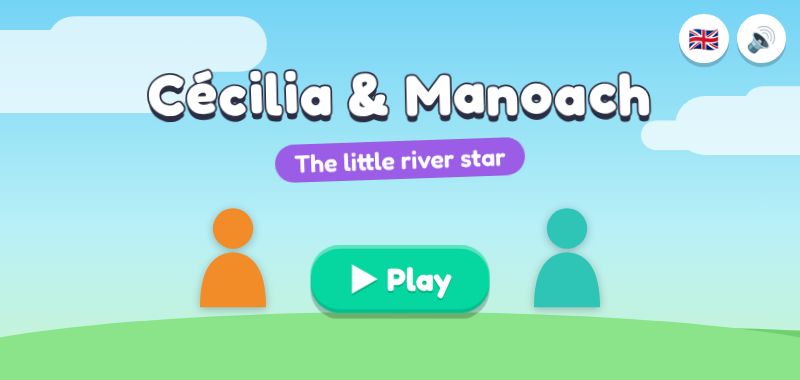
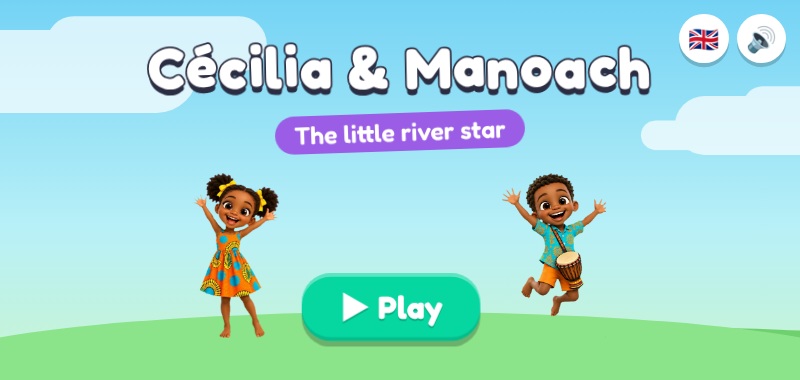
Personnages en style toon : 37 sprites générés avec ElevenLabs et intégrés
- Cécilia (8 poses), Manoach (7), petite étoile (7), Thérèse, Axel,
  Christian, Maman la Lune, luciole : images toon détourées, 512 px,
  WebP ≤ 80 Ko (1,4 Mo au total) dans app/www/img/persos/
- Francesca, Rokaya, Mathias restent des silhouettes neutres
- Mise en page des sprites (cartes de stage, scène, accueil, fête) ;
  pose de fête par personnage (PERSONNAGES.<id>.fete)
- Célébration : Cécilia (ou Manoach en fin de chapitre) à la place de
  l'avatar générique V1
- docs/PROMPTS-IMAGES.md : prompts, méthode, lien de la planche Figma
- outils/images/planche.py : découpe et détourage des planches
- Captures V2 régénérées

Claude-Session: https://claude.ai/code/session_01QWtMEEjt6sdt3rUZ92HTK4

Changed region(s): [[0.1562, 0.1158, 0.8125, 0.4921], [0.375, 0.4632, 0.7812, 0.9263], [0.25, 0.4632, 0.375, 0.8974]]

diff --git a/app/www/js/histoire.js b/app/www/js/histoire.js
@@ -31,16 +31,16 @@ const MECANIQUES = {
 };
 
 // ---------- Les personnages ----------
-// couleur : teinte de la silhouette de remplacement tant que l'image n'est pas fournie.
+// couleur : teinte de la silhouette de remplacement tant que l'image n'est pas fournie. fete : pose utilisée pour la fête de fin de chapitre.
 const PERSONNAGES = {
-  cecilia:   { nom: 'Cécilia',   couleur: '#F28C28', poses: ['debout', 'contente', 'pointe', 'reflechit', 'applaudit', 'tient-etoile', 'grimpe', 'court'] },
-  manoach:   { nom: 'Manoach',   couleur: '#2EC4B6', poses: ['debout', 'content', 'tambour', 'reflechit', 'applaudit', 'grimpe', 'court'] },
-  etoile:    { nom: { fr: 'La petite étoile', en: 'The little star' }, couleur: '#FFD84A', poses: ['triste', 'froide', 'sale', 'propre', 'contente', 'pale', 'clin-oeil'] },
-  therese:   { nom: 'Thérèse',   couleur: '#5DA35A', poses: ['nage', 'parle', 'sourit'] },
-  axel:      { nom: 'Axel',      couleur: '#8B6B4A', poses: ['calme', 'parle', 'sourit'] },
-  christian: { nom: 'Christian', couleur: '#F4F1EA', poses: ['debout', 'ailes-ouvertes', 'vole-etoile', 'timide'] },
-  lune:      { nom: { fr: 'Maman la Lune', en: 'Mama Moon' }, couleur: '#FFF4D6', poses: ['sourit', 'bras-ouverts', 'calin'] },
-  luciole:   { nom: { fr: 'Luciole', en: 'Firefly' }, couleur: '#E8F56B', poses: ['ailes-ouvertes', 'ailes-fermees'] },
+  cecilia:   { nom: 'Cécilia',   couleur: '#F28C28', fete: 'applaudit', poses: ['debout', 'contente', 'pointe', 'reflechit', 'applaudit', 'tient-etoile', 'grimpe', 'court'] },
+  manoach:   { nom: 'Manoach',   couleur: '#2EC4B6', fete: 'applaudit', poses: ['debout', 'content', 'tambour', 'reflechit', 'applaudit', 'grimpe', 'court'] },
+  etoile:    { nom: { fr: 'La petite étoile', en: 'The little star' }, couleur: '#FFD84A', fete: 'contente', poses: ['triste', 'froide', 'sale', 'propre', 'contente', 'pale', 'clin-oeil'] },
+  therese:   { nom: 'Thérèse',   couleur: '#5DA35A', fete: 'sourit', poses: ['nage', 'parle', 'sourit'] },
+  axel:      { nom: 'Axel',      couleur: '#8B6B4A', fete: 'sourit', poses: ['calme', 'parle', 'sourit'] },
+  christian: { nom: 'Christian', couleur: '#F4F1EA', fete: 'ailes-ouvertes', poses: ['debout', 'ailes-ouvertes', 'vole-etoile', 'timide'] },
+  lune:      { nom: { fr: 'Maman la Lune', en: 'Mama Moon' }, couleur: '#FFF4D6', fete: 'bras-ouverts', poses: ['sourit', 'bras-ouverts', 'calin'] },
+  luciole:   { nom: { fr: 'Luciole', en: 'Firefly' }, couleur: '#E8F56B', fete: 'ailes-ouvertes', poses: ['ailes-ouvertes', 'ailes-fermees'] },
   // Pas dans le livre : silhouettes neutres tant que l'auteur ne les a pas décrits.
   francesca: { nom: 'Francesca', couleur: '#9AA0B5', neutre: true, poses: ['debout', 'content', 'aide'] },
   rokaya:    { nom: 'Rokaya',    couleur: '#9AA0B5', neutre: true, poses: ['debout', 'content', 'aide'] },

diff --git a/app/www/js/app.js b/app/www/js/app.js
@@ -231,7 +231,7 @@ const Celebrate = {
     const p = Store.profile(), c = $('#celebrate');
     $('#cel-garland-top').innerHTML = garlandHTML(20);
     $('#cel-garland-bottom').innerHTML = garlandHTML(20).replace('class="garland"', 'class="garland bottom"');
-    $('#cel-avatar').innerHTML = avatarSVG(avOf(p), '', 'wink');
+    $('#cel-avatar').innerHTML = Assets.perso(finChap ? 'manoach' : 'cecilia', finChap ? 'tambour' : 'contente', 'avatar');
     $('#cel-title').textContent = finChap ? t('allTogether') : `${t('bravo')} ${p.name} !`;
     $('#cel-sub').textContent = extra && extra.race !== undefined ? (extra.race ? '🏆 ' + t('youWon') : '🎉 ' + t('wellDone')) : '';
     const sp = $$('#cel-stars span'); sp.forEach(s => s.classList.remove('on'));
@@ -239,7 +239,7 @@ const Celebrate = {
     const ca = $('#cel-animal');
     if (pages && pages.length) { ca.style.display = 'flex'; ca.innerHTML = `<span class="em">📖</span> ${t('pageUnlocked')}`; } else ca.style.display = 'none';
     // Fin de chapitre : Cécilia, Manoach et les personnages rencontrés fêtent ensemble
-    $('#cel-amis').innerHTML = finChap ? amisJusqua(finChap).map(a => Assets.perso(a, null, 'danse')).join('') : '';
+    $('#cel-amis').innerHTML = finChap ? amisJusqua(finChap).map(a => Assets.perso(a, (PERSONNAGES[a] || {}).fete, 'danse')).join('') : '';
     $('#cel-next').style.display = this.suivante() ? '' : 'none';
     c.classList.add('on'); Sound.fanfare(); Fireworks.start(5000);
   },

diff --git a/app/www/css/style.css b/app/www/css/style.css
@@ -379,3 +379,15 @@ button { font: inherit; color: inherit; border: 0; cursor: pointer; }
 .cel-amis { display: flex; justify-content: center; gap: .3rem; margin: 0 0 .6rem; }
 .cel-amis:empty { display: none; }
 .cel-amis > * { width: 3.4rem; }
+
+/* Sprites des personnages (images toon détourées) : toujours contenus dans leur cadre */
+img.sprite { width: auto; max-width: 100%; max-height: 100%; object-fit: contain; margin: 0 auto; }
+.stage-card .perso { flex: 1 1 0; min-height: 0; width: 100%; display: flex; justify-content: center; align-items: flex-end; }
+.stage-card .perso > * { max-height: 100%; width: auto; max-width: 100%; }
+.stage-card .perso > svg { width: 6.5rem; }
+.scene-perso { align-self: stretch; display: flex; align-items: flex-end; justify-content: center; }
+.scene-perso > img { height: 92%; }
+.home-row img.avatar { width: auto; height: 12rem; }
+.cel-amis > * { width: auto; height: 4.6rem; }
+.cel-amis > svg { width: 3.4rem; }
+.cel-box img.avatar { width: auto; height: 15rem; }

diff --git a/outils/images/planche.py b/outils/images/planche.py
@@ -1,0 +1,66 @@
+# Découpe une planche (personnages côte à côte sur fond magenta) en sprites WebP transparents.
+# Usage : python3 -I planche.py planche.png dossier_sortie pose1 pose2 ...  (de gauche à droite)
+import sys, os
+import numpy as np
+from PIL import Image, ImageFilter
+src, out_dir, poses = sys.argv[1], sys.argv[2], sys.argv[3:]
+os.makedirs(out_dir, exist_ok=True)
+im = Image.open(src).convert('RGB'); a = np.asarray(im).astype(np.float32)
+bord = np.concatenate([a[0], a[-1], a[:, 0], a[:, -1]]); fond = np.median(bord, axis=0)
+d = np.sqrt(((a - fond) ** 2).sum(axis=2))
+alpha = np.clip((d - 80) / 70, 0, 1)
+r, g, b = a[..., 0], a[..., 1], a[..., 2]
+spill = np.clip(np.minimum(r, b) - g, 0, None)
+k = np.where(alpha < 0.98, 1.0, 0.25)
+a[..., 0] -= spill * k; a[..., 2] -= spill * k
+m = Image.fromarray((alpha * 255).astype(np.uint8)).filter(ImageFilter.MinFilter(5)).filter(ImageFilter.GaussianBlur(.6))
+rgba = Image.fromarray(np.dstack([np.clip(a, 0, 255), np.asarray(m)]).astype(np.uint8), 'RGBA')
+# Découpe en n parts aux colonnes les moins remplies (les personnages peuvent se toucher)
+n = len(poses)
+mask = np.asarray(m) > 40
+mass = mask.sum(axis=0).astype(float)
+W = len(mass)
+lisse = np.convolve(mass, np.ones(9) / 9, mode='same')
+xs = np.where(mass > 2)[0]; gauche, droite = xs.min(), xs.max()
+cuts = []
+pas = (droite - gauche) / n
+for k in range(1, n):
+    c = gauche + k * pas; lo, hi = int(c - pas * .45), int(c + pas * .45)
+    cuts.append(lo + int(np.argmin(lisse[lo:hi])))
+bornes = [0] + cuts + [W]
+fus = [[bornes[i], bornes[i + 1]] for i in range(n)]
+from collections import deque
+def nettoie(seg):
+    # Retire les petits morceaux d'un voisin qui touchent le bord gauche/droit de la part
+    A = np.asarray(seg.getchannel('A')) > 40
+    sm = A[::2, ::2].copy(); H2, W2 = sm.shape
+    lab = np.zeros(sm.shape, np.int32); tailles = [0]; bords = [False]; cur = 0
+    for y0 in range(H2):
+        for x0 in np.where(sm[y0] & (lab[y0] == 0))[0]:
+            if lab[y0, x0]: continue
+            cur += 1; q = deque([(y0, x0)]); lab[y0, x0] = cur; t = 0; bd = False
+            while q:
+                y, x = q.popleft(); t += 1
+                if x == 0 or x == W2 - 1: bd = True
+                for yy, xx in ((y+1,x),(y-1,x),(y,x+1),(y,x-1)):
+                    if 0 <= yy < H2 and 0 <= xx < W2 and sm[yy, xx] and not lab[yy, xx]:
+                        lab[yy, xx] = cur; q.append((yy, xx))
+            tailles.append(t); bords.append(bd)
+    if cur == 0: return seg
+    gros = max(tailles)
+    jeter = [i for i in range(1, cur + 1) if (bords[i] and tailles[i] < gros * .25) or tailles[i] < gros * .002]
+    if not jeter: return seg
+    kill = np.isin(lab, jeter).repeat(2, 0).repeat(2, 1)[:A.shape[0], :A.shape[1]]
+    al = np.asarray(seg.getchannel('A')).copy(); al[kill] = 0
+    seg.putalpha(Image.fromarray(al)); return seg
+print('groupes', len(fus), 'poses', len(poses))
+for (x0, x1), pose in zip(fus, poses):
+    s = nettoie(rgba.crop((x0, 0, x1, rgba.height)))
+    bb = s.getchannel('A').point(lambda v: 255 if v > 24 else 0).getbbox()
+    s = s.crop(bb)
+    h = 512; w = max(1, round(s.width * h / s.height)); s = s.resize((w, h), Image.LANCZOS)
+    dst = f'{out_dir}/{pose}.webp'
+    for q in (86, 80, 72, 64, 56, 48):
+        s.save(dst, 'WEBP', quality=q, method=6)
+        if os.path.getsize(dst) <= 80 * 1024: break
+    print(dst, s.size, os.path.getsize(dst) // 1024, 'Ko')

diff --git a/docs/PROMPTS-IMAGES.md b/docs/PROMPTS-IMAGES.md
@@ -1,0 +1,33 @@
+# Images des personnages — style toon
+
+Les sprites du jeu (`app/www/img/persos/<perso>/<pose>.webp`) ont été générés avec **ElevenLabs** (modèle `gpt-image-2.5-sunburst`), en **style toon** : film d'animation 3D pour livre d'enfants, grands yeux expressifs, formes douces, fidèles aux descriptions de `HISTOIRE.md`. Pas d'images réalistes.
+
+Planche de validation dans Figma : https://www.figma.com/design/GGKvZ97DyLH5Mit8QfXkJC
+
+## Méthode
+
+1. **Référence** de Cécilia et de Manoach (4 variantes, une retenue), sur fond magenta uni `#FF00FF`.
+2. **Planches de poses** : 3 ou 4 copies du même personnage côte à côte, générées à partir de la référence (même visage, mêmes habits).
+3. **Découpe et détourage** : `python3 outils/images/planche.py planche.png app/www/img/persos/<perso> pose1 pose2 …` (fond magenta → transparent, 512 px de haut, WebP ≤ 80 Ko).
+
+Fond magenta obligatoire dans chaque prompt : « Background: one flat uniform pure magenta color (#FF00FF), no shadows, no floor, no props, no text, no labels. »
+
+## Prompts utilisés
+
+Style commun : *Stylized 3D animated feature film cartoon style for a children's picture book (not realistic), big expressive shiny eyes, soft rounded shapes.*
+
+| Personnage | Description | Poses (de gauche à droite sur la planche) |
+|---|---|---|
+| Cécilia | 7-year-old Congolese girl, gentle and brave, dark brown skin, two afro puff pigtails tied with bright yellow ribbons, sleeveless orange dress with turquoise polka dots and wax-print patterns, barefoot | debout, contente (bras levés), pointe, réfléchit · applaudit, tient l'étoile, grimpe (branche), court |
+| Manoach | 5-year-old Congolese boy, cheerful little brother, dark brown skin, short curly hair, turquoise shirt with orange patterns, orange shorts, barefoot, djembe on a strap | debout, content (saute), tambour, réfléchit · applaudit, grimpe, court |
+| Petite étoile | small five-pointed golden-yellow glowing star, cute round face, big eyes, rosy cheeks, stubby points as arms and legs | triste (larmes), froide (tremble), sale (boue), propre · contente, pâle (jaune délavé), clin d'œil |
+| Thérèse | wise kind old river turtle, green skin, golden-brown shell, pink flower on her head | nage, parle, sourit |
+| Axel | giant old baobab with a kind face in the trunk, green moss eyebrows, hanging white flowers | calme, parle, sourit |
+| Christian | shy kind white heron, long yellow-orange beak, small crest, long legs | debout, ailes ouvertes, vole avec l'étoile dans le bec, timide |
+| Maman la Lune | full moon, creamy white glow, gentle motherly face, little arms | sourit, bras ouverts, câlin avec l'étoile |
+| Luciole | cute firefly, glowing yellow-green belly, big eyes, antennae | ailes ouvertes, ailes fermées |
+
+## Pas encore produit
+
+- **Francesca, Rokaya, Mathias** : silhouettes neutres tant que l'auteur ne les a pas décrits.
+- **Scènes et pages du livre** (`img/scenes/`) : à extraire des PDF du livre (voir `INSTRUCTION-V2.md`, section 7).

diff --git a/docs/ROADMAP.md b/docs/ROADMAP.md
@@ -16,7 +16,7 @@ Cahier des charges complet : [INSTRUCTION-V2.md](INSTRUCTION-V2.md)
 - [x] Phase 1 — Squelette : 10 chapitres, 30 stages, 70 parties navigables *(à valider par l'auteur)*
 - [ ] Phase 2 — Univers visuel du livre (nuit, fleuve, lucioles, escalier de lumière)
 - [ ] Phase 3 — Nouvelles mécaniques (ranger, chercher, frotter la boue, laver, rythme, escalade…)
-- [ ] Phase 4 — Images pro des personnages (3D/2D)
+- [~] Phase 4 — Images des personnages en style toon : 37 sprites générés (ElevenLabs) et intégrés, à valider ; restent Francesca, Rokaya, Mathias et les scènes du livre
 - [ ] Phase 5 — Dialogues FR/EN et voix
 - [ ] Phase 6 — Publication (targetSdk 34, AAB)
 - [ ] Description de Francesca, Rokaya et Mathias par l'auteur
